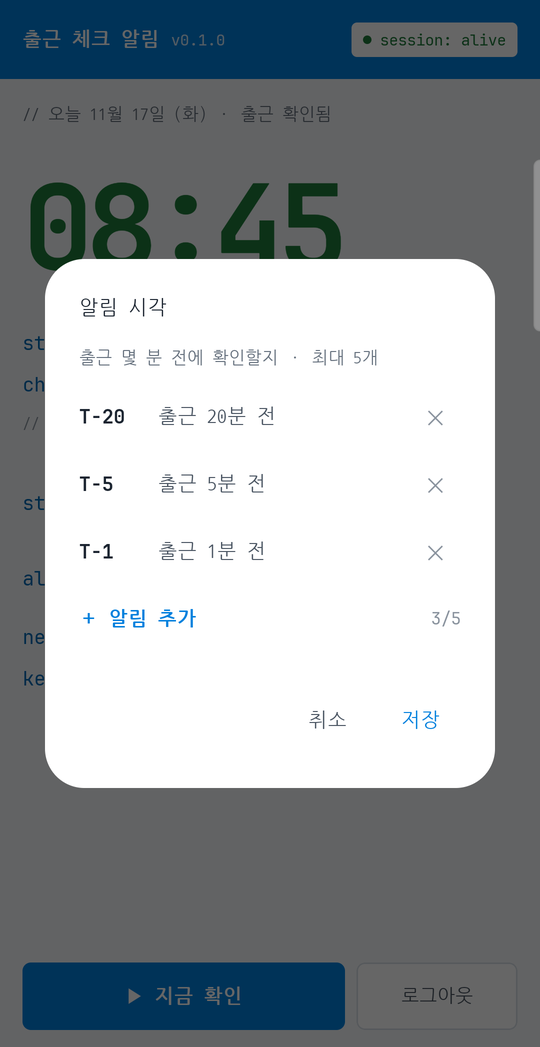
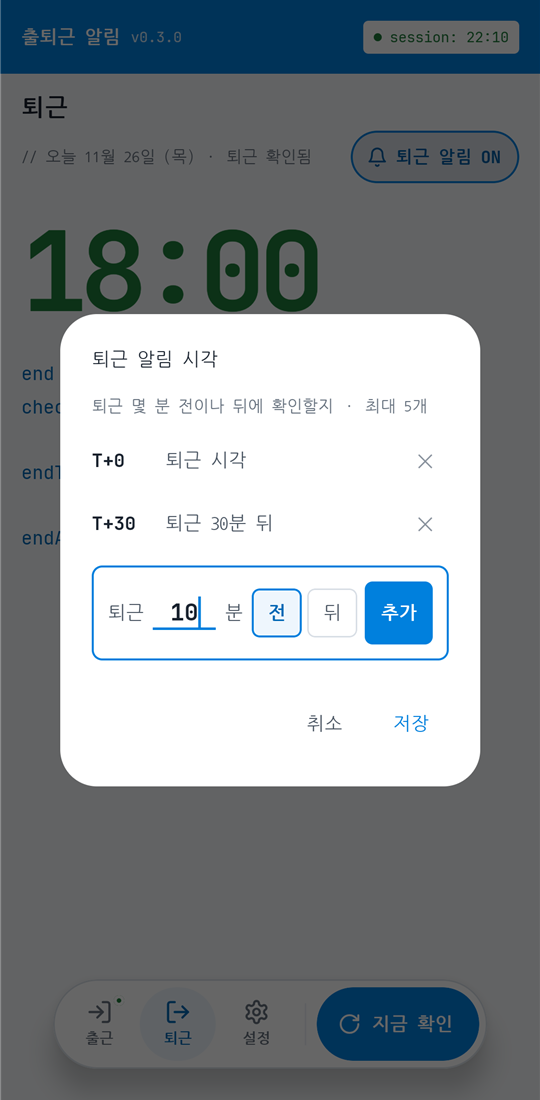
Retake the README screenshots for the tabbed main screen
The README shows the 출근, 퇴근 and 설정 tabs, the 퇴근 alert dialog and
the start time dialog. The notification screenshot is unchanged.

Part of #4

diff --git a/README.md b/README.md
@@ -6,9 +6,13 @@
 
 ## 화면
 
-| 메인 화면 | 알림 시각 | 출근 시각 |
+| 출근 | 퇴근 | 설정 |
 | :---: | :---: | :---: |
-| <img src="docs/screenshots/main.png" width="240" alt="오늘 출근 기록, 출근 시각, 알림 시각, 다음 확인 시각이 보이는 메인 화면"> | <img src="docs/screenshots/alerts.png" width="240" alt="출근 20분·5분·1분 전 알림 목록과 알림 추가 버튼"> | <img src="docs/screenshots/start-time.png" width="240" alt="출근 시각을 직접 고르는 시계 다이얼로그"> |
+| <img src="docs/screenshots/main.png" width="240" alt="출근 탭. 오늘 출근 기록 08:32, 출근 시각, 알림 시각이 보이고 아래에 출근·퇴근·설정 탭과 지금 확인 버튼이 있는 독"> | <img src="docs/screenshots/end.png" width="240" alt="퇴근 탭. 퇴근 알림 ON 버튼, 퇴근 기록 18:00, 퇴근 시각, 퇴근 알림 시각 T+0·T+30"> | <img src="docs/screenshots/settings.png" width="240" alt="설정 탭. 알림 권한과 배터리 최적화 예외 상태, 버전과 새 버전 확인, 로그아웃"> |
+
+| 퇴근 알림 시각 | 출근 시각 |
+| :---: | :---: |
+| <img src="docs/screenshots/alerts.png" width="240" alt="퇴근 알림 목록 T+0·T+30과 퇴근 10분 전·뒤를 골라 추가하는 입력란"> | <img src="docs/screenshots/start-time.png" width="240" alt="출근 시각을 직접 고르는 시계 다이얼로그"> |
 
 출근 전까지 출근 체크를 하지 않았으면 이런 알림이 옵니다. 누르면 하이웍스 앱이 열립니다.
 
